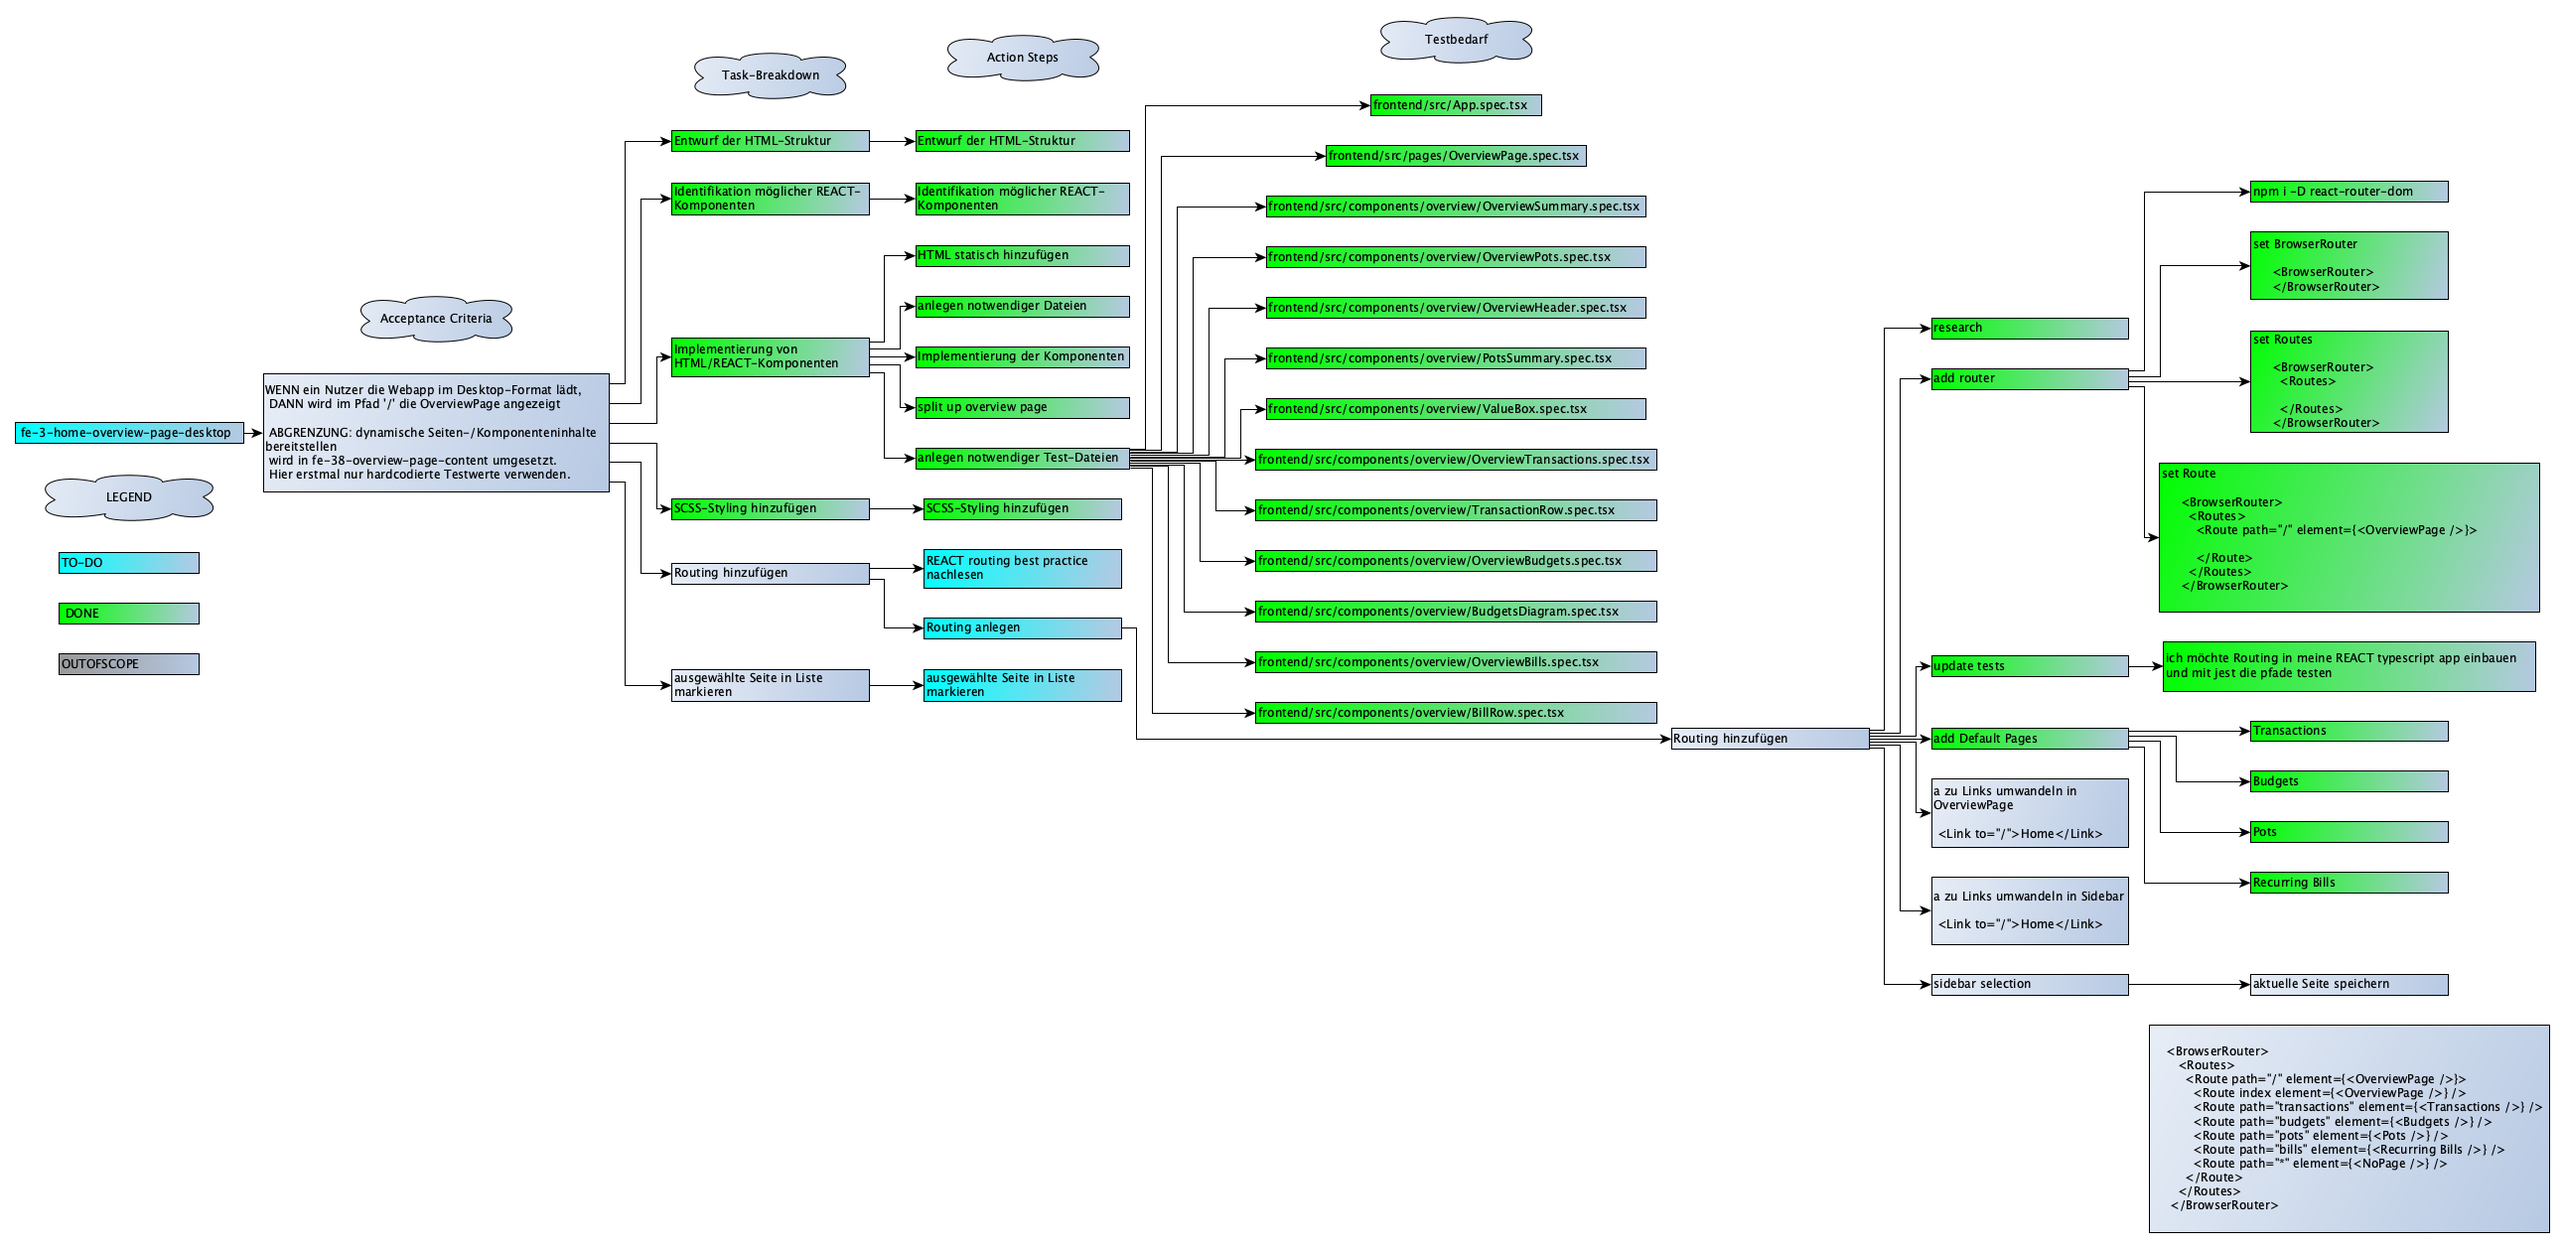
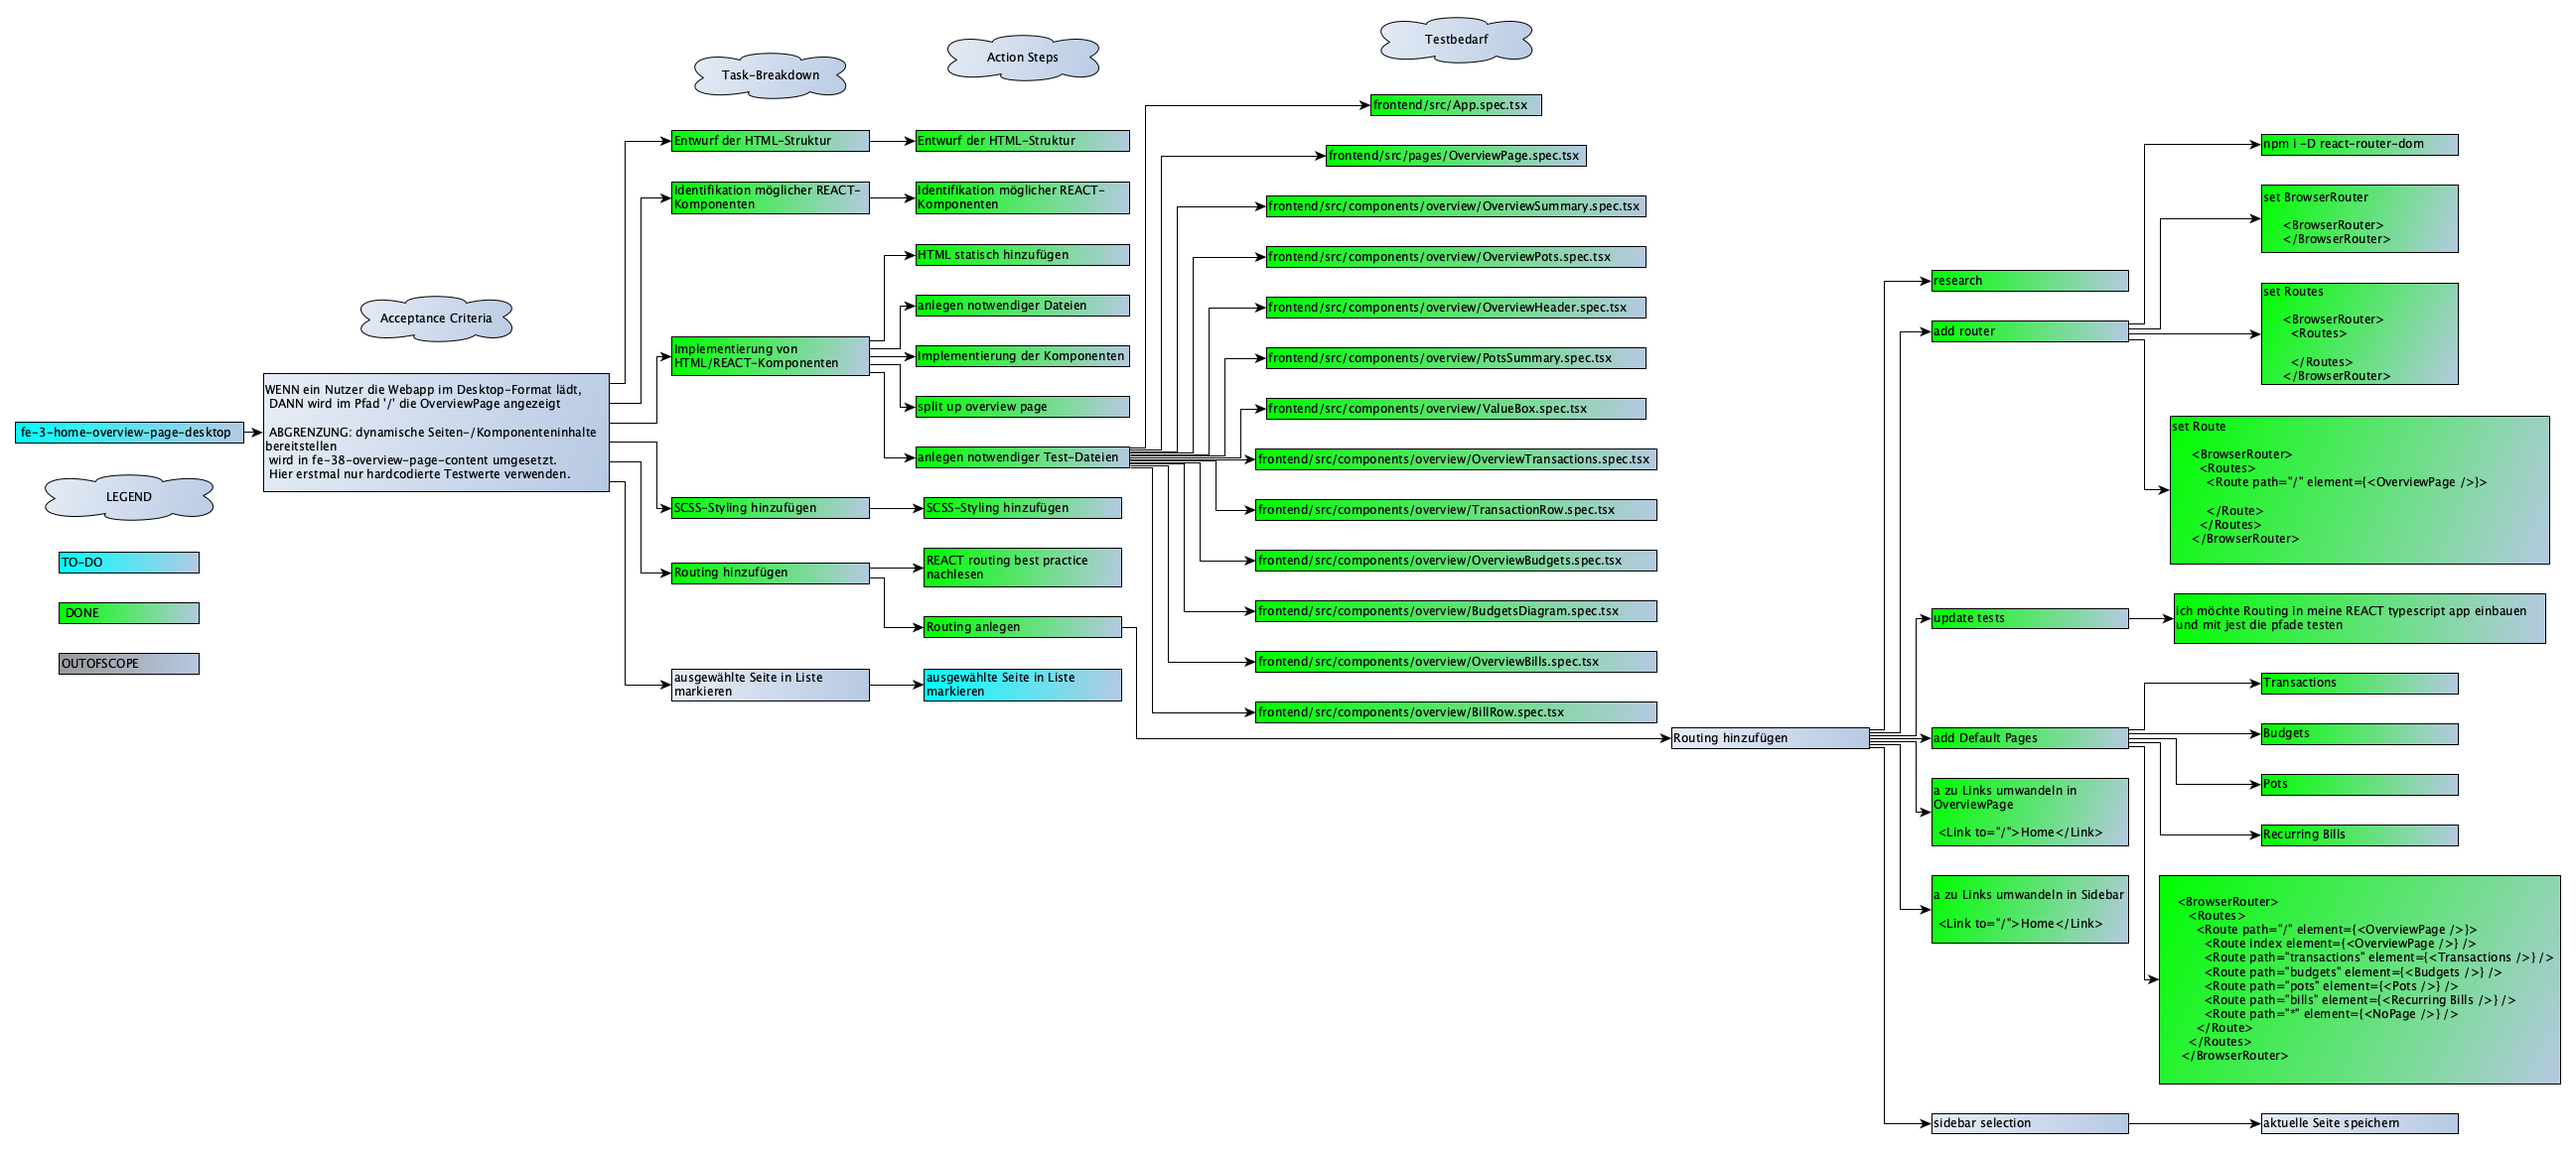
fe-3 add links

Changed region(s): [[0.0, 0.0, 1.0, 0.9948]]

diff --git a/frontend/src/App.tsx b/frontend/src/App.tsx
@@ -8,8 +8,15 @@ import { BillsPage } from './pages/BillsPage';
 import { PotsPage } from './pages/PotsPage';
 import { BudgetsPage } from './pages/BudgetsPage';
 import { TransactionsPage } from './pages/TransactionsPage';
+import PropTypes from 'prop-types';
+import { AppProps } from './types/AppProps';
 
-function App({ Router = BrowserRouter, initialEntries = ['/'] }) {
+App.propTypes = {
+  Router: PropTypes.elementType,
+  initialEntries: PropTypes.arrayOf(PropTypes.string),
+};
+
+function App({ Router = BrowserRouter, initialEntries = ['/'] }: AppProps) {
   const routes = (
     <Routes>
       <Route path="/" element={<OverviewPage />} />
@@ -23,17 +30,20 @@ function App({ Router = BrowserRouter, initialEntries = ['/'] }) {
 
   const router =
     Router === MemoryRouter ? (
-      <MemoryRouter initialEntries={initialEntries}>{routes}</MemoryRouter>
+      <MemoryRouter initialEntries={initialEntries}>
+        <Sidebar />
+        <section className="content">{routes}</section>
+      </MemoryRouter>
     ) : (
-      <Router>{routes}</Router>
+      <Router>
+        <Sidebar />
+        <section className="content">{routes}</section>
+      </Router>
     );
 
   return (
     <>
-      <div className="webapp">
-        <Sidebar />
-        <section className="content">{router}</section>
-      </div>
+      <div className="webapp">{router}</div>
     </>
   );
 }

diff --git a/frontend/src/components/sidebar/SidebarListEntry.tsx b/frontend/src/components/sidebar/SidebarListEntry.tsx
@@ -1,19 +1,29 @@
 import './SidebarListEntry.scss';
 import PropTypes from 'prop-types';
 import { SidebarListEntryProps } from '../../types/SidebarListEntryProps';
+import React from 'react';
+import { Link } from 'react-router-dom';
 
 SidebarListEntry.propTypes = {
   name: PropTypes.string.isRequired,
   imgSrc: PropTypes.string.isRequired,
   imgAlt: PropTypes.string.isRequired,
+  linkTarget: PropTypes.string.isRequired,
   className: PropTypes.string,
 };
 
-export function SidebarListEntry({ name, imgSrc, imgAlt, className }: SidebarListEntryProps) {
+export function SidebarListEntry({
+  name,
+  imgSrc,
+  imgAlt,
+  linkTarget,
+  className,
+}: SidebarListEntryProps) {
+  const target = '/';
   return (
-    <div className={`entryRow ${className ? className : ''}`} tabIndex={0}>
+    <Link to={linkTarget} className={`entryRow ${className ? className : ''}`} tabIndex={0}>
       <img src={imgSrc} alt={imgAlt} aria-hidden="true" />
       <label className="entryRowLabel">{name}</label>
-    </div>
+    </Link>
   );
 }

diff --git a/frontend/src/components/overview/OverviewHeader.tsx b/frontend/src/components/overview/OverviewHeader.tsx
@@ -1,6 +1,7 @@
 import './OverviewHeader.scss';
 import PropTypes from 'prop-types';
 import { OverviewHeaderProps } from '../../types/OverviewHeaderProps';
+import { Link } from 'react-router-dom';
 
 OverviewHeader.propTypes = {
   title: PropTypes.string.isRequired,
@@ -13,7 +14,7 @@ export function OverviewHeader({ title, linkText, linkTarget }: OverviewHeaderPr
     <>
       <div className="overviewHeader" data-testid="overview-header">
         <h2 className="overviewHeaderTitle">{title}</h2>
-        <a className="overviewHeaderLink" href={linkTarget}>
+        <Link to={linkTarget} className="overviewHeaderLink">
           {linkText}
           <svg
             width="5"
@@ -27,7 +28,7 @@ export function OverviewHeader({ title, linkText, linkTarget }: OverviewHeaderPr
               fill="#696868"
             />
           </svg>
-        </a>
+        </Link>
       </div>
     </>
   );

diff --git a/frontend/src/Constants/SidebarPages.ts b/frontend/src/Constants/SidebarPages.ts
@@ -5,25 +5,30 @@ export const SidebarPages: SidebarPage[] = [
     name: 'Overview',
     imgSrc: './src/assets/images/icon-nav-overview.svg',
     imgAlt: 'overview icon',
+    linkTarget: '/',
   },
   {
     name: 'Transactions',
     imgSrc: './src/assets/images/icon-nav-transactions.svg',
     imgAlt: 'transactions icon',
+    linkTarget: '/transactions',
   },
   {
     name: 'Budgets',
     imgSrc: './src/assets/images/icon-nav-budgets.svg',
     imgAlt: 'budgets icon',
+    linkTarget: '/budgets',
   },
   {
     name: 'Pots',
     imgSrc: './src/assets/images/icon-nav-pots.svg',
     imgAlt: 'pots icon',
+    linkTarget: '/pots',
   },
   {
     name: 'Recurring Bills',
     imgSrc: './src/assets/images/icon-nav-recurring-bills.svg',
     imgAlt: 'recurring bills icon',
+    linkTarget: '/bills',
   },
 ];

diff --git a/frontend/src/components/overview/bills/OverviewBills.tsx b/frontend/src/components/overview/bills/OverviewBills.tsx
@@ -6,7 +6,7 @@ export function OverviewBills() {
   return (
     <>
       <div className="overviewBills" data-testid="overview-bills">
-        <OverviewHeader title="Recurring Bills" linkText="See Details" linkTarget="//" />
+        <OverviewHeader title="Recurring Bills" linkText="See Details" linkTarget="/bills" />
         <div className="overviewBillsContent">
           <BillRow title="Paid Bills" value="$190.00" color="dark-green" />
           <BillRow title="Total Upcoming" value="$194.98" color="beige" />

diff --git a/frontend/src/components/overview/transactions/OverviewTransactions.tsx b/frontend/src/components/overview/transactions/OverviewTransactions.tsx
@@ -6,7 +6,7 @@ export function OverviewTransactions() {
   return (
     <>
       <div className="overviewTransactions" data-testid="overview-transactions">
-        <OverviewHeader title="Transactions" linkText="View All" linkTarget="//" />
+        <OverviewHeader title="Transactions" linkText="View All" linkTarget="/transactions" />
         <div className="overviewTransactionsContent">
           <TransactionRow
             name="Emma Richardsen"

diff --git a/frontend/src/components/overview/budgets/OverviewBudgets.tsx b/frontend/src/components/overview/budgets/OverviewBudgets.tsx
@@ -7,7 +7,7 @@ export function OverviewBudgets() {
   return (
     <>
       <div className="overviewBudgets" data-testid="overview-budgets">
-        <OverviewHeader title="Budgets" linkText="See Details" linkTarget="//" />
+        <OverviewHeader title="Budgets" linkText="See Details" linkTarget="/budgets" />
         <div className="overviewBudgetsContent">
           <BudgetsDiagram />
           <div className="overviewBudgetsValues">

diff --git a/frontend/src/Pages/OverviewPage.tsx b/frontend/src/Pages/OverviewPage.tsx
@@ -4,6 +4,7 @@ import { OverviewPots } from '../components/overview/pots/OverviewPots';
 import { OverviewTransactions } from '../components/overview/transactions/OverviewTransactions';
 import { OverviewBudgets } from '../components/overview/budgets/OverviewBudgets';
 import { OverviewBills } from '../components/overview/bills/OverviewBills';
+import React from 'react';
 
 export function OverviewPage() {
   return (

diff --git a/frontend/src/components/overview/pots/OverviewPots.tsx b/frontend/src/components/overview/pots/OverviewPots.tsx
@@ -7,7 +7,7 @@ export function OverviewPots() {
   return (
     <>
       <div className="overviewPots" data-testid="overview-pots">
-        <OverviewHeader title="Pots" linkText="See Details" linkTarget="//" />
+        <OverviewHeader title="Pots" linkText="See Details" linkTarget="/pots" />
         <div className="overviewPotsContent">
           <PotsSummary />
           <div className="overviewPotsValues">

diff --git a/frontend/src/components/sidebar/SidebarMinimize.tsx b/frontend/src/components/sidebar/SidebarMinimize.tsx
@@ -3,6 +3,7 @@ import { SidebarListEntry } from './SidebarListEntry';
 export function SidebarMinimize() {
   return (
     <SidebarListEntry
+      linkTarget="/"
       name="Minimize Menu"
       imgSrc="./src/assets/images/icon-minimize-menu.svg"
       imgAlt="minimize icon"

diff --git a/frontend/src/Types/AppProps.ts b/frontend/src/Types/AppProps.ts
@@ -1,0 +1,7 @@
+import React from 'react';
+import { BrowserRouterProps, MemoryRouterProps } from 'react-router-dom';
+
+export interface AppProps {
+  Router: React.ComponentType<BrowserRouterProps | MemoryRouterProps>;
+  initialEntries: string[];
+}

diff --git a/frontend/src/components/sidebar/Sidebar.tsx b/frontend/src/components/sidebar/Sidebar.tsx
@@ -16,6 +16,7 @@ export function Sidebar() {
             name={entry.name}
             imgSrc={entry.imgSrc}
             imgAlt={entry.imgAlt}
+            linkTarget={entry.linkTarget}
           />
         ))}
       </div>
